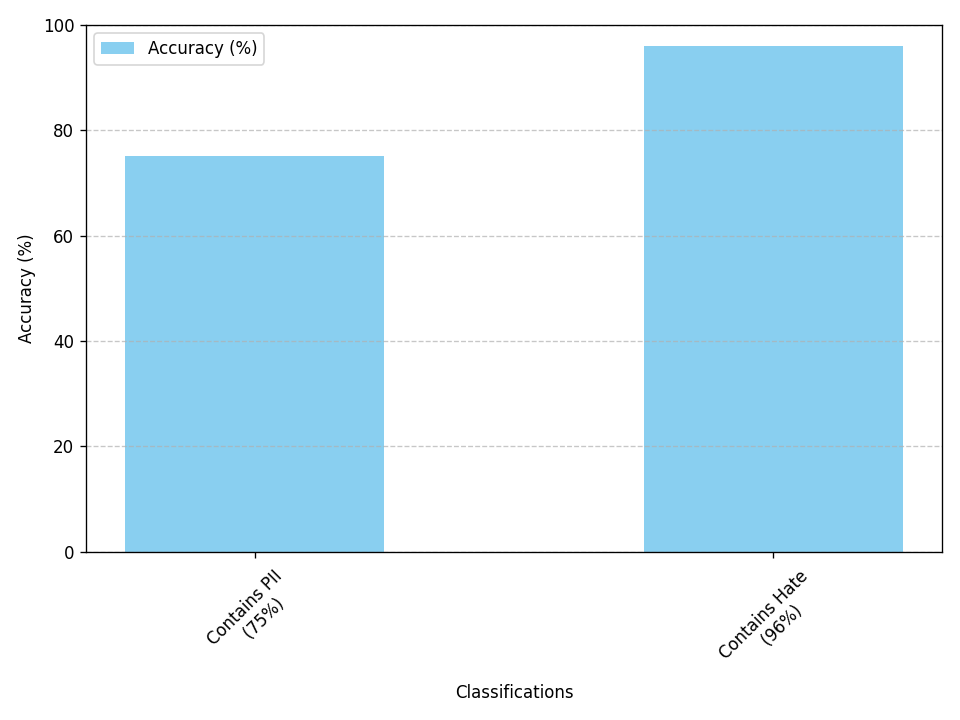
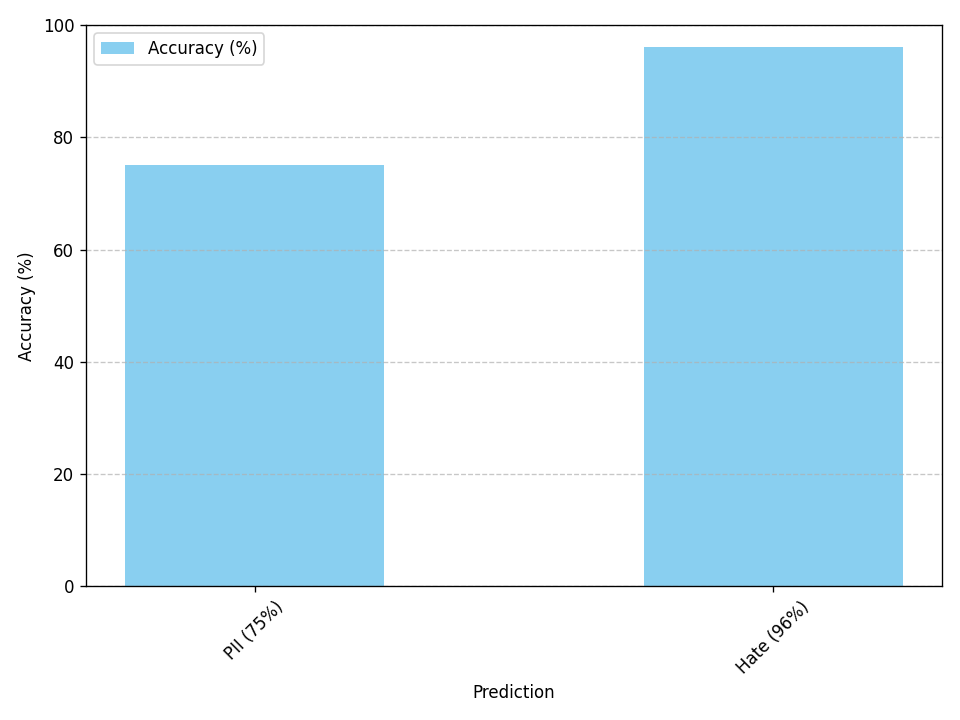
update graphs

diff --git a/text_moderator.py b/text_moderator.py
@@ -119,8 +119,12 @@ def classify_text(pipeline, text, hate_class, pii_class, counts):
 
         counts['correct_pii'] += (predicted_pii_label == actual_pii_label)
         counts['wrong_pii'] += (predicted_pii_label != actual_pii_label)
+
         counts['predict_pii'] += (predicted_pii_label == 'contains_pii')
         counts['actual_pii'] += (actual_pii_label == 'contains_pii')
+
+        counts['predict_not_pii'] += (predicted_pii_label == 'no_pii')
+        counts['actual_not_pii'] += (actual_pii_label == 'no_pii')
 
     prediction = pipeline.predict([cleaned_text])
     predicted_hate_class = prediction[0]
@@ -129,8 +133,12 @@ def classify_text(pipeline, text, hate_class, pii_class, counts):
 
     counts['correct_hate'] += (predicted_hate_label == actual_hate_label)
     counts['wrong_hate'] += (predicted_hate_label != actual_hate_label)
+
     counts['predict_hate'] += (predicted_hate_label != 'neither')
     counts['actual_hate'] += (actual_hate_label != 'neither')
+
+    counts['predict_not_hate'] += (predicted_hate_label == 'neither')
+    counts['actual_not_hate'] += (actual_hate_label == 'neither')
 
 def create_histogram_acc(counts):
     correct_pii = counts['correct_pii']
@@ -144,8 +152,8 @@ def create_histogram_acc(counts):
     pii_accuracy = (correct_pii / total_pii * 100)
     hate_accuracy = (correct_hate / total_hate * 100)
 
-    labels = [f'Contains PII \n ({pii_accuracy:.0f}%)', 
-              f'Contains Hate \n ({hate_accuracy:.0f}%)']
+    labels = [f'PII ({pii_accuracy:.0f}%)', 
+              f'Hate ({hate_accuracy:.0f}%)']
     accuracies = [pii_accuracy, hate_accuracy]
 
     x_positions = np.arange(len(labels))
@@ -154,7 +162,7 @@ def create_histogram_acc(counts):
 
     ax.bar(x_positions, accuracies, width=barWidth, color='#89CFF0', label='Accuracy (%)')
 
-    ax.set_xlabel('Classifications')
+    ax.set_xlabel('Prediction')
     ax.set_xticks(x_positions)
     ax.set_xticklabels(labels, rotation=45)
     ax.set_ylabel('Accuracy (%)')
@@ -170,17 +178,21 @@ def create_histogram_count(counts):
     actual_pii_count = counts['actual_pii']
     predict_hate_count = counts['predict_hate']
     actual_hate_count = counts['actual_hate']
+    predict_not_pii_count = counts['predict_not_pii']
+    actual_not_pii_count = counts['actual_not_pii']
+    predict_not_hate_count = counts['predict_not_hate']
+    actual_not_hate_count = counts['actual_not_hate']
     barWidth = 0.4
 
-    labels = ['Contains PII', 'Contains Hate']
-    predict_values = [predict_pii_count, predict_hate_count]
-    actual_values = [actual_pii_count, actual_hate_count]
+    labels = ['Contains PII', 'Contains Hate', 'Not Contains PII', 'Not Contains Hate']
+    predict_values = [predict_pii_count, predict_hate_count, predict_not_pii_count, predict_not_hate_count]
+    actual_values = [actual_pii_count, actual_hate_count, actual_not_pii_count, actual_not_hate_count]
 
     x_positions = np.arange(len(labels))
     r1 = x_positions - barWidth / 2
     r2 = x_positions + barWidth / 2
 
-    fig, ax = plt.subplots(dpi=120, figsize=(8, 6))
+    fig, ax = plt.subplots(dpi=120, figsize=(10, 6))
 
     ax.bar(r1, predict_values, width=barWidth, color='#89CFF0', label='Prediction')
     ax.bar(r2, actual_values, width=barWidth, color='#2d7f5e', label='Actual')
@@ -211,6 +223,10 @@ def main():
         'actual_pii': 0,
         'predict_hate': 0,
         'actual_hate': 0,
+        'predict_not_pii': 0,
+        'actual_not_pii': 0,
+        'predict_not_hate': 0,
+        'actual_not_hate': 0,
     }
     
     if data:
